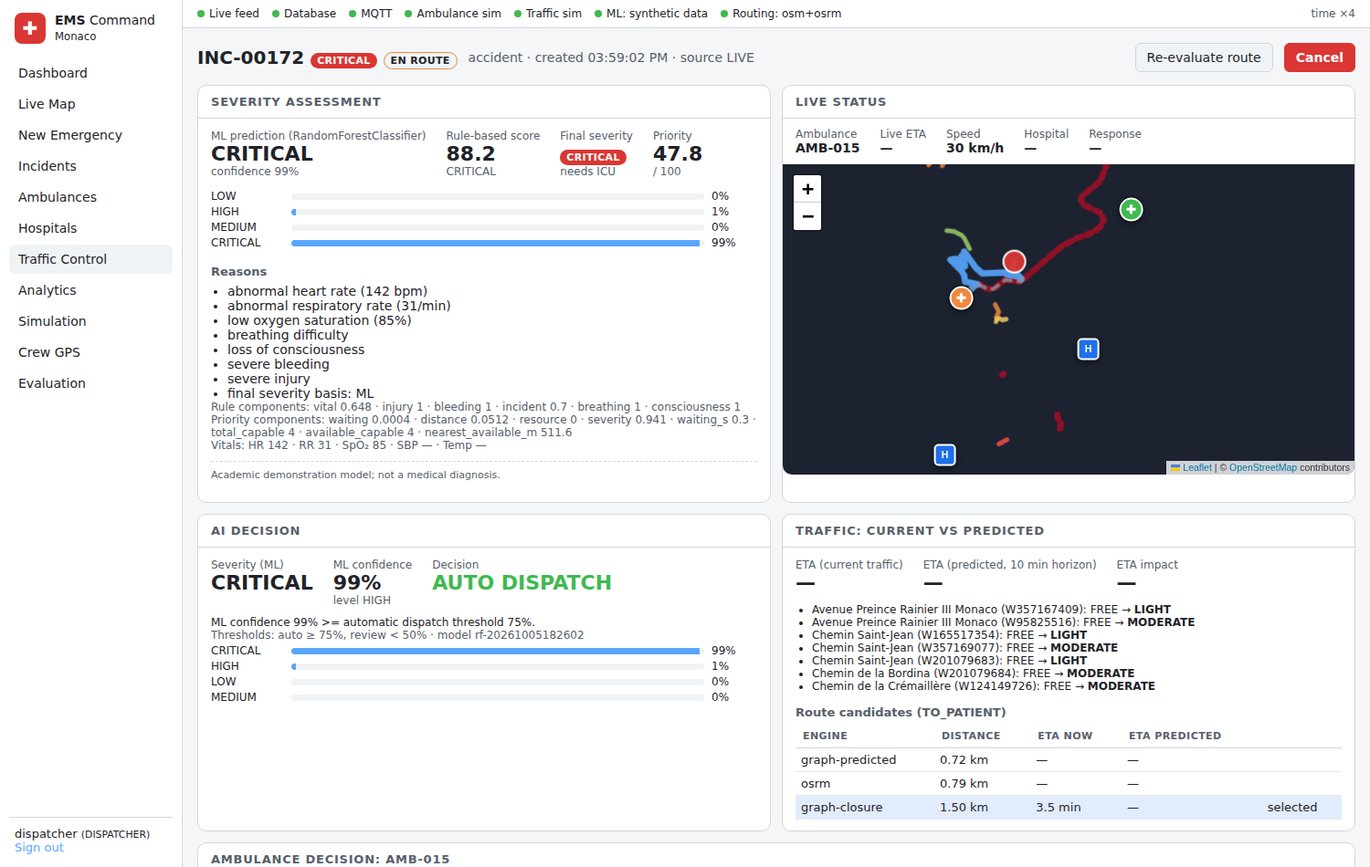
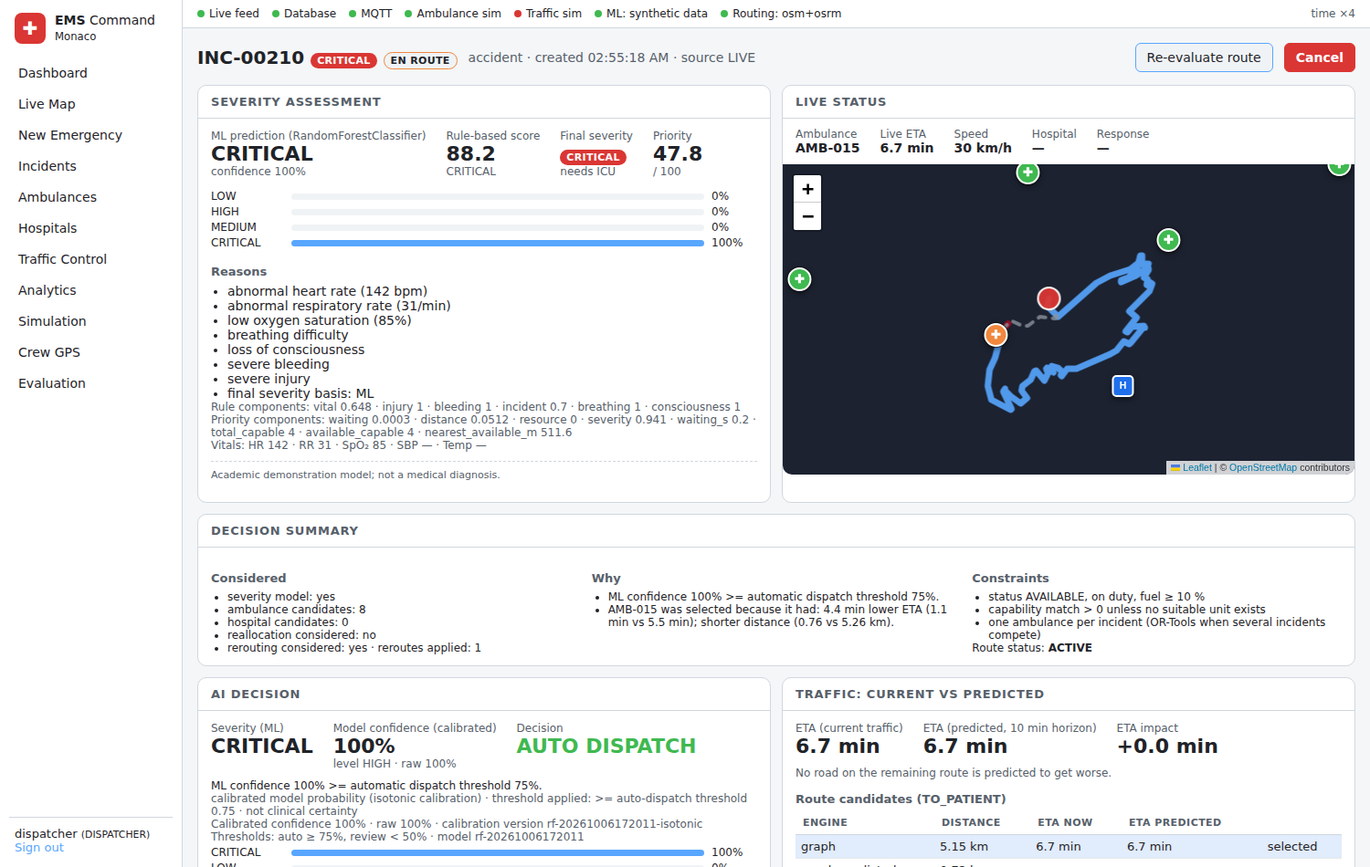
Docs: reliability features, measured results, data provenance (Monaco, not Bengaluru)
- README and RESEARCH_EVALUATION.md describe the checkpoint recovery, structured
  ROUTE_UNAVAILABLE, calibration outputs, traffic three-way comparison, new
  metrics and effect sizes, with measured values only and their limitations.
- States explicitly that the 100-scenario experiment and the live restart
  validation used the Monaco OSM extract, synthetic severity data and simulated
  calls/traffic/hospital load - not Bengaluru.
- evaluation/README.md documents how every stored output was produced.
- .env.example: ROUTE_CHECKPOINT_INTERVAL_S, ROUTE_CHECKPOINT_REPLAN_THRESHOLD_M,
  CALIBRATION_ENABLED, EVALUATION_SEED.
- Refreshed only the screenshots referenced by the README.

Claude-Session: https://claude.ai/code/session_01MB71AZiYJGwNfR2gp3n2DN

diff --git a/README.md b/README.md
@@ -17,7 +17,7 @@ PostgreSQL/PostGIS.
 4. [Features](#4-features) · 5. [Architecture](#5-architecture) · 6. [Technology stack](#6-technology-stack) ·
 7. [Database](#7-database-architecture) · 8. [ML](#8-ml-architecture) · 9. [Routing](#9-routing-architecture) ·
 10. [Traffic simulation](#10-traffic-simulation) · 11. [Dispatch algorithm](#11-dispatch-algorithm) ·
-12. [Formulas](#12-formulas) · 12a. [Decision intelligence](#12a-decision-intelligence) · 13. [Installation (Windows)](#13-installation-windows-powershell) ·
+12. [Formulas](#12-formulas) · 12a. [Decision intelligence](#12a-decision-intelligence) · 12b. [Research evaluation](#12b-research-evaluation-progressive-baselines-and-ablation) · 12c. [Reliability & provenance](#12c-reliability-calibration-and-data-provenance) · 13. [Installation (Windows)](#13-installation-windows-powershell) ·
 14. [Running](#14-running-the-project) · 15. [Docker](#15-option-b-docker-compose) · 16. [Demo](#16-demo-scenario) ·
 17. [API](#17-api) · 18. [Testing](#18-testing) · 19. [Measured results](#19-measured-results) ·
 20. [Screenshots](#20-screenshots) · 21. [Limitations](#21-limitations) · 22. [Future work](#22-future-work)
@@ -319,6 +319,151 @@ load and wait columns.
 * A CRITICAL-vs-LOW conflict was **ESCALATED** because the donor delay of 10.1 min exceeded 5 min. The
   dispatcher approved it, the units were swapped, and the cost was +4.3 min for the LOW call.
 
+## 12b. Research evaluation (progressive baselines and ablation)
+The repository includes a research evaluation layer. It replays the **same seeded scenarios** under five
+progressively stronger decision strategies (A BASELINE → B SEVERITY → C TRAFFIC → D HOSPITAL → E FULL) and
+under six FULL-minus-one ablations. It reports paired statistics: Shapiro–Wilk, then a paired t-test or
+Wilcoxon signed-rank, 95 % CI, and Holm-adjusted p-values.
+
+Every decision is taken by the production code (triage, DispatchScore, OR-Tools, routing engine on a clone
+of the real road graph plus OSRM, traffic and hospital prediction, the reallocation policy, the re-route
+rules, explanations). Experiments write only the new `experiment_*` tables (migration `0005_evaluation.sql`)
+and `evaluation/results/<run>/`.
+
+```powershell
+cd backend
+python -m app.migrate
+python -m app.evaluation.run_experiment --all --scenarios 100 --seed 42        # systems A-E
+python -m app.evaluation.run_experiment --ablation --scenarios 100 --seed 42   # FULL and FULL-minus-one
+```
+
+Results appear as CSV/JSON, `REPORT.md` and SVG plots, and on the **Evaluation** page (`/evaluation`).
+Methodology, metric definitions, statistical tests, assumptions and limitations:
+**[docs/RESEARCH_EVALUATION.md](docs/RESEARCH_EVALUATION.md)**.
+
+> **Data used for these results: Monaco, not Bengaluru.** The 100-scenario experiment and the live backend-restart
+> validation were run in the development container on the bundled **Monaco** OpenStreetMap extract (with an OSRM
+> instance built from that extract), with **synthetic** severity training data, **simulated** calls, traffic and
+> hospital load. No Bengaluru map, OSRM build or Bengaluru data was used, so none of these numbers describe
+> Bengaluru. A Bengaluru installation must re-run the experiment (`python -m app.evaluation.run_experiment --all
+> --ablation --scenarios 100 --seed 42`). Provenance of every stored run: [evaluation/README.md](evaluation/README.md).
+
+**Results: Monaco OSM + OSRM, seed 42.** Design: **100 scenarios × 11 strategy configurations = 1 100 simulation
+runs** (0 failed). The 11 configurations are the 5 progressive systems A–E plus 6 FULL-minus-one ablations; FULL is
+run once and serves both families. The 100 scenarios contain 562 emergency calls, identical in every configuration,
+giving 562 × 11 = 6 182 simulated call outcomes. **The unit of analysis is the scenario.** Each table value is a
+mean over the 100 scenario-level values of one configuration (fewer where a metric does not exist in a scenario,
+e.g. 64 scenarios contain a CRITICAL patient). Paired tests compare the same scenario under two configurations (at
+most 100 pairs); runs are never pooled across configurations. The report's "Design and denominators" section
+lists every *n*.
+(`evaluation/results/upgrade-s42-n100/`, re-run after the reliability upgrade; calibrated severity model; LEARNED traffic model; ESCALATED reallocations
+rejected by the simulated dispatcher). These are simulated decision-support results, not clinical or real-world
+performance. All numbers below are means over scenarios; "sig." means a Holm-adjusted paired Wilcoxon p < 0.05.
+
+| Metric | A BASELINE | B SEVERITY | C TRAFFIC | D HOSPITAL | E FULL |
+|---|---:|---:|---:|---:|---:|
+| Response time (s) | 471.8 | 501.9 | 488.3 | 501.7 | 487.5 |
+| Critical-case response (s) | 503.7 | 499.4 | 496.8 | 508.3 | 480.7 |
+| Critical delay beyond 8 min (s) | 182.9 | 155.3 | 146.0 | 156.2 | 135.0 |
+| Unsuitable first unit vs simulated need (%) | 25.0 | 13.9 | 13.4 | 13.3 | 11.9 |
+| Hospital capability gap (%) | 38.2 | 34.2 | 34.3 | 34.3 | 34.2 |
+| Hospital wait, simulated (s) | 1 944 | 1 980 | 1 987 | 1 534 | 1 529 |
+| Creation → ED treatment, simulated (s) | 2 905 | 2 973 | 2 958 | 2 548 | 2 527 |
+| \|ETA error\| (s) | 78.0 | 84.9 | 45.8 | 46.0 | 37.4 |
+| Re-route ETA savings per scenario (s) | 0 | 0 | 0 | 0 | 11.9 |
+| Review rate (%) / manual interventions per scenario | 0 / 0 | 0 / 0 | 0 / 0 | 0 / 0 | 2.8 / 0.41 |
+| Under-triage vs simulated label (%) | n/a | 12.7 | 12.7 | 12.7 | 11.5 |
+| Priority violations per scenario (vs simulated label) | 0.02 | 0.02 | 0.02 | 0.02 | 0.06 |
+| Route failures (no drivable route) per scenario | 0.43 | 0.53 | 0.51 | 0.50 | 0.50 |
+| Units stopped at a closure per scenario | 0.28 | 0.32 | 0.27 | 0.27 | 0.20 |
+| Unsafe reallocations per scenario (vs simulated label) | 0 | 0 | 0 | 0 | 0.02 |
+
+What the paired tests support (and what they do not):
+* **Severity awareness has a measurable cost and a measurable benefit.** Sending capable units raises mean response
+  time (+30 s vs BASELINE, sig., rank-biserial r = 0.51, large), but it halves unsuitable first units (25.0 % → 13.9 %, sig., r = −0.94) and reduces
+  hospital capability gaps (−4.0 points, sig.). The nearest-unit baseline is fast because it often sends the wrong unit.
+* **Traffic awareness mainly improves predictability.** |ETA error| falls by 39.1 s (sig., r = −0.91). Response time is not
+  significantly different from SEVERITY.
+* **Hospital intelligence gives the largest effect.** Simulated ED wait falls by 454 s (r = −0.87) and creation-to-treatment by
+  411 s (r = −0.74), both sig. vs TRAFFIC. Removing it from FULL raises the wait by 470 s (sig., r = 0.92), at the price of 11.0 s longer
+  response (sig., r = −0.49 for FULL−HOSPITAL, i.e. FULL is slower), because the chosen hospital is sometimes farther.
+* **Dynamic re-routing helps.** Removing it from FULL adds 12.8 s response time (sig., r = 0.88) and 0.25 reactive detours per
+  scenario (sig.).
+* **Confidence-aware review** holds 2.8 % of calls and lowers potentially inappropriate automatic dispatch
+  (sig.). Its effect on under-triage (12.7 % → 11.5 %) and on critical delay rests on too few non-zero pairs for a test.
+* **Reallocation** found 42 conflicts in 30 of 100 scenarios: 11 automatic reallocations and 31 escalations (rejected
+  by the simulated dispatcher). Removing it changes no time metric significantly.
+* **Explainability** changes no decision (identical results in every scenario), as designed.
+* **Traffic prediction did not help in this experiment.** The LEARNED model was trained on the live traffic
+  simulator's history. Scored against the simulated state H minutes later it reaches 76.5 % accuracy (FULL), versus
+  98.7 % for persistence and 32.6 % for the rule fallback, and removing it (FULL−TRAFFIC) does not change response time significantly. The
+  scenario traffic changes far less often than the live simulator, so the learned dynamics do not transfer.
+  This is reported, not tuned away; the live system only uses the model while it beats persistence on its own
+  history (in this run 0.955 vs 0.950 hold-out accuracy; rule fallback 0.528).
+* **Critical-case metrics** have 0.97 CRITICAL patients per scenario (64 of 100 scenarios have one), so most critical comparisons have
+  too few non-zero pairs for a test. The trend favours FULL (critical delay 134.9 s vs 182.9 s), but it is not
+  established.
+* **Severity model on the scenario patients** (simulated label): accuracy 0.965 on clear reports, 0.597 on the
+  35 % uncertain reports. Calibration ECE is 0.007 (clear) and 0.26 (uncertain): it does not transfer to noisy
+  reports.
+* **New operational metrics are rare events.** Priority violations (FULL 0.06 vs BASELINE 0.02 per scenario) rest
+  on 3 non-zero paired differences, so no test was run. The difference is reported, not established, and its
+  cause was not analysed. Route failures do not differ (Wilcoxon p = 0.94, r = 0.02).
+  The 2 unsafe reallocations (FULL) are cases where the system's triage ranked the donor lower than the requester
+  while the simulated label did not.
+* **Hospital forecast vs simulated load** (SIMULATION, FULL): load MAE 0.56 patients vs persistence 0.59, but wait
+  MAE 276 s vs persistence 264 s. The queueing forecast is not better than persistence for waits.
+* **Effect sizes and medians** for every test are in `paired_tests.csv` and on the Evaluation page. Out of 91 tested
+  comparisons, 49 vs BASELINE and 32 in the ablation family remain significant after Holm.
+* **Note on tests.** Wilcoxon tests the location of the paired differences while the CI is for the mean, so a
+  significant Wilcoxon result can sit with a mean CI that crosses 0 (e.g. SEVERITY's time-to-treatment). Such
+  results are not claimed as improvements.
+
+
+## 12c. Reliability, calibration and data provenance
+
+| Improvement | What changed | Where |
+|---|---|---|
+| **Restart recovery** | The telemetry flush now persists each live route's progress and last ETA (`routes.progress_m / last_eta_s / progress_updated_at`, `ambulance_locations.progress_m`, migration `0006_route_progress.sql`). After a backend restart the active routes are restored *with* that progress. After a **simulator** restart, the route commands the broker replays are held, not driven. The simulator announces itself (`simulator/hello`), and the backend re-sends each live route with the last persisted GPS fix and progress (`ROUTE_RESUMED`). The unit continues where it is: same route id, no duplicate route, no jump to the route start. If GPS and stored progress disagree by more than 75 m, the route is re-planned from the GPS fix instead of guessing. | `services/routes_service.resume_simulated_routes`, `simulator/ambulance_simulator.py` |
+| **No walking-speed "ambulance route"** | When every road route crosses a closed road, the router raises `NoDrivableRouteError` naming the closures, instead of driving through them at 5 km/h. Dispatch then reports **ROUTE UNAVAILABLE** with dispatcher review (the incident note names the closed roads). A moving ambulance gets one `ROUTE_UNAVAILABLE` event (ambulance, position, closed roads, `alternative_exists=false`, `dispatcher_required=true`) and a red banner, and keeps its route until a detour exists or the closure clears. The legacy behaviour is opt-in: `CLOSURE_ACCESS_FALLBACK=true`. | `routing/engine.py`, `services/dispatch_service.py`, `services/routes_service.py` |
+| **Calibrated severity probabilities** | The RandomForest's class probability is a *model confidence*, not clinical certainty. Training now carves a calibration split out of the training data. Isotonic regression is used with ≥ 1 000 calibration rows, Platt (sigmoid) below that, and no calibration below 200 rows or 20 per class. Raw and calibrated models are compared on the untouched test split, and the calibrated model is deployed only if it lowers **both** Brier and ECE without losing more than 1 point of accuracy. On the synthetic dataset, calibration was applied (isotonic): Brier 0.1013 → 0.0827, ECE 0.0756 → 0.0126, accuracy 0.9558 → 0.9542, macro-F1 0.9581 → 0.9566. The raw forest was under-confident. Reliability curves are in `ml/artifacts/metrics.json`. Thresholds were **not** changed (0.75 / 0.50). Because calibrated probabilities are higher, fewer clean cases fall below 0.75 (test split: 10.7% → 1.1%). | `ml/calibration.py`, `ml/train.py`, `ml/predict.py` |
+| **Confidence trace** | The decision trace / AI panel shows the predicted severity, the raw and the calibrated probability, the calibration method, the threshold that applied, the decision mode and the reason. It is labelled "model confidence, not clinical certainty". Decision modes map onto the requested vocabulary: AUTO = `AUTO_DISPATCH`, REVIEW = `DISPATCH_WITH_REVIEW`, CLARIFY = `HUMAN_REVIEW` (the dispatcher confirms or corrects severity before dispatch), ABSTAIN = model unavailable (the ML abstains; the rule score decides, with review). No new modes were invented. | `services/decision_service.py`, `DecisionPanels.tsx` |
+| **Traffic source labels** | The traffic API and page state `traffic_source = SIMULATION`; whether the prediction is LEARNED or FALLBACK and why; training samples; the hold-out comparison against persistence; and what the confidence number means (the uncalibrated RF class probability, or the empirical persistence rate for the fallback). | `services/traffic_prediction.py`, `Traffic.tsx` |
+| **Traffic model training storm (bug fix)** | Concurrent traffic events each retrained the model at start-up. The log showed 25 trainings on 30 000 samples, which saturated the CPU and stalled the API. Training is now serialised with a double-checked lock (1 training). | `services/traffic_prediction.py` |
+| **Hospital data quality** | A capability status is derived from the data source: `VERIFIED_YES/NO` (CSV), `OSM_TAG_YES`, `UNKNOWN` (absent OSM tag, **never** "no"), `SIMULATED_YES/NO` (demo seed). Capacity is labelled verified / estimated / simulated, and load as SIMULATION. In ranking, a hospital whose required capability is only *unknown* ranks after confirmed-capable hospitals but before confirmed-lacking ones; with complete data the order is unchanged. Warnings distinguish "lacks" from "unknown". | `services/mission_service.py`, `dispatch/scoring.py` |
+| **Hospital why / why not** | Every alternative hospital gets factual reasons: lacks / unknown capability, at capacity, slower, longer estimated wait, higher predicted load, or higher overall score. Hospital forecasts carry `source = SIMULATION`. | `dispatch/scoring.hospital_why_not`, `dispatch/explain.py` |
+| **Reallocation candidates** | Every committed unit is assessed and the result stored in the conflict (`details.candidates`): unavailable (with reason), unreachable, insufficient gain, feasible / not feasible (with estimated donor delay). Among the 3 fastest options, the fastest *feasible* one is reallocated automatically. If none is feasible, the fastest is escalated, as before. It is still one donor per conflict; multi-unit chain reallocation is outside the current optimisation scope. The evaluation simulator uses the same ranking function. | `services/reallocation.rank_donor_options` |
+| **Provenance labels** | Synthetic seed incidents show as `HISTORICAL_SEED / SYNTHETIC`, and simulation/scenario incidents as simulated. | `format.ts`, Incidents / details pages |
+| **Evaluation** | The research evaluation (§12b) now also reports the severity model on the scenario patients (accuracy, macro P/R/F1, Brier, ECE, confidence distribution, split by clear / uncertain reports) and **traffic-prediction quality**: every prediction is scored against the simulated state H minutes later, next to the persistence baseline. | `evaluation/runner.py`, `evaluation/simulator.py` |
+| **Route checkpoint + backend restart recovery** | Migration `0007_route_checkpoint.sql` adds `routes.checkpoint_lat/lon/segment`. The telemetry flush saves a checkpoint (progress, segment, position, ETA, time) at most every `ROUTE_CHECKPOINT_INTERVAL_S` (default 2 s) per active route and logs `ROUTE_CHECKPOINT_SAVED`. When the backend starts (after MQTT connects), every active route is reloaded from the database. If the latest GPS fix is within `ROUTE_CHECKPOINT_REPLAN_THRESHOLD_M` (default 75 m) of the checkpoint, the route continues from the checkpoint and the ETA is recomputed from the remaining route (`ROUTE_RECOVERED`). Otherwise the route is replanned from the GPS position (`ROUTE_RECOVERY_REPLAN`). Both events store the checkpoint, the current position, the distance, the threshold, the old/new ETA and the reason. In a live run in the development container (Monaco OSM extract, simulated ambulance, not Bengaluru), a backend killed mid-route came back and resumed the route at the 363.1 m checkpoint (distance 0 m, same route id). The route then completed normally. | `services/telemetry_service.py`, `services/routes_service.recover_active_routes`, `main.py` |
+| **Structured ROUTE UNAVAILABLE** | `POST /api/routes/calculate` answers **409** with `{status: "ROUTE_UNAVAILABLE", reason, blocked_roads, origin, destination, dispatcher_action_required: true}` when no drivable route exists. For a moving ambulance, the route row stores `unavailable_reason / unavailable_at`, and `ROUTE_AVAILABLE` is emitted when the closure clears. The incident page shows a red "ROUTE UNAVAILABLE - dispatcher action required" banner naming the incident, the ambulance and the closed roads. Tests cover all five cases: a normal route, one closure with an alternate road, every access closed, fallback disabled (default) and fallback explicitly enabled. | `routing/engine.py`, `api/routes.py`, `EmergencyDetails.tsx` |
+| **Calibration outputs** | Training writes `evaluation/severity_calibration.json`. It records the train 60 % / calibration 20 % / untouched test 20 % split, the method, the version, the raw and calibrated Brier and ECE, accuracy / precision / recall / F1, the sample counts and the ECE bins, and it logs `CALIBRATION_EVALUATED`. Each prediction keeps both the raw and the calibrated vectors, plus `calibration_version`, in `CONFIDENCE_ASSESSED`. With `CALIBRATION_ENABLED=false`, decisions use the raw probabilities. Current file (synthetic data, 1 200 test rows): Brier 0.1013 → 0.0827, ECE 0.0756 → 0.0126. | `ml/train.py`, `ml/predict.py` |
+| **Traffic: ML vs fallback vs persistence** | `python -m app.evaluation.traffic_eval` scores the three predictors on the time-ordered hold-out of the stored (SIMULATION) traffic history and writes `evaluation/traffic_prediction.json` (logs `TRAFFIC_PREDICTION_EVALUATED`). Measured: ML accuracy 0.9532 / MAE 0.0841 levels, rule fallback 0.4793 / 0.5883, persistence 0.9504 / 0.1060 (30 000 samples, 7 500 hold-out). The learned model only marginally beats persistence, and the rule fallback is much worse than persistence. | `evaluation/traffic_eval.py`, `ml/traffic_model.py` |
+| **Decision summary + rejection codes** | `GET /api/emergencies/{id}/decision` adds a `summary` covering what was considered (severity model, ambulance and hospital candidates, units with no drivable route, whether reallocation and rerouting were considered), why, the constraints and the route status. Each rejected candidate carries structured codes. Ambulance codes are `UNSUITABLE_CAPABILITY`, `TOO_SLOW`, `HEAVY_TRAFFIC`, `LOWER_CAPABILITY_MATCH`, `HIGHER_WORKLOAD`, `LOW_FUEL`, `LONGER_DISTANCE`, `HIGHER_SCORE`, `ASSIGNED_TO_HIGHER_PRIORITY`, `NO_DRIVABLE_ROUTE`. Hospital codes are `LACKS_CAPABILITY`, `CAPABILITY_UNKNOWN`, `HOSPITAL_FULL`, `TOO_SLOW`, `HOSPITAL_CONGESTION`, `HIGHER_SCORE`. Reallocation candidate codes are `DONOR_EQUAL_OR_HIGHER_SEVERITY`, `LOWER_PRIORITY_MARGIN` (= lower priority not low enough), `UNSUITABLE_CAPABILITY`, `NO_DRIVABLE_ROUTE`, `INSUFFICIENT_GAIN`, `NO_REPLACEMENT`, `DONOR_DELAY_TOO_HIGH`, `FEASIBLE` (logged as `RESOURCE_REALLOCATION_EVALUATED`). | `services/decision_service.py`, `dispatch/explain.py`, `dispatch/scoring.py`, `services/reallocation.py` |
+
+**What is real, simulated, predicted or estimated**
+
+| Data | Status |
+|---|---|
+| Road network, hospital names/locations | REAL PUBLIC DATA (OpenStreetMap) when the OSM extract is installed; synthetic grid otherwise |
+| Hospital capabilities | VERIFIED only after the CSV import; OSM tags are partial evidence; missing tags are UNKNOWN |
+| Hospital capacity / load | capacity estimated (OSM beds or default) unless verified; load is SIMULATION (dispatch admissions, simulated discharges) |
+| Hospital load / wait prediction | MODEL OUTPUT, an ESTIMATE from a queueing approximation on simulated load |
+| Traffic states | SIMULATION (traffic simulator + dispatcher events); no live external feed |
+| Traffic prediction | MODEL OUTPUT, LEARNED only if it beats persistence on the stored (simulated) history, else FALLBACK |
+| Severity | MODEL OUTPUT on SYNTHETIC training data (demo) or on a REAL PUBLIC triage dataset (KTAS, Korea, ED triage, not Indian pre-hospital care). Not a diagnosis, not clinically validated |
+| Incidents | live dispatcher input, SIMULATION/SCENARIO (simulated), HISTORICAL_SEED (SYNTHETIC) |
+| Ambulance GPS | SIMULATION (MQTT simulator), or the crew phone's real GPS (Crew GPS page) |
+
+**Not implemented (with reason)**
+
+| Feature | Status | Reason | What would be required | Current safe behaviour |
+|---|---|---|---|---|
+| Multi-unit / chain reallocation | NOT IMPLEMENTED | needs a joint optimisation over all active missions, a major change to the dispatch architecture | a fleet-wide assignment model (e.g. CP-SAT over active and waiting incidents) with impact constraints | one donor per conflict, ranked candidates, escalation when not feasible |
+| Hospital-load prediction vs persistence on real data | NOT MEASURABLE WITH CURRENT DATA | no real occupancy history; in the *simulation* the forecast is now scored against the simulated load (load and wait MAE vs persistence, labelled SIMULATION, §12b) | historical snapshots of incoming ambulances plus real occupancy data | forecast labelled ESTIMATE / SIMULATION |
+| Validated uncertainty for traffic predictions | NOT IMPLEMENTED | the RF class probability is uncalibrated, and the history is simulated | a calibration study on real traffic data | the number is shown with its exact meaning, never as a validated uncertainty |
+| Real traffic / real hospital occupancy | NOT IMPLEMENTED | no free real-time source for Bengaluru | a licensed traffic API / hospital information-system integration | clearly labelled simulation |
+
 ## 13. Installation (Windows PowerShell)
 Get the code (into `D:\emergencydispatch`):
 ```powershell
@@ -543,13 +688,16 @@ Interactive docs: `/docs`. All endpoints except login/health require `Authorizat
 | POST | `/api/dispatch/conflicts/{id}/approve` · `/reject` | DISPATCHER | resolve an escalated reallocation |
 | GET/POST | `/api/traffic/predictions` `?changed_only=` · `/predictions/refresh` `?retrain=` | any / DISPATCHER | predicted traffic + model status · recompute |
 | GET | `/api/hospitals/predictions` · `/api/hospitals/{id}/prediction` `?horizon_min=` | any | predicted hospital load and wait (estimated) |
+| GET | `/api/evaluation/runs` · `/runs/{id}` · `/runs/{id}/results?strategy=` · `/strategies` · `/job` | any | stored experiments, comparison, paired statistics, per-scenario metrics |
+| GET | `/api/evaluation/model-quality` | any | severity calibration (Brier/ECE raw vs calibrated) and traffic ML vs fallback vs persistence, read from `evaluation/*.json` (NOT RUN if absent) |
+| POST | `/api/evaluation/runs` `{progressive, ablation, strategies, scenarios<=200, seed (default EVALUATION_SEED)}` | ADMIN | start an experiment in the background (use the CLI for large runs) |
 | POST | `/api/emergencies/{id}/reroute` · `/cancel` | DISPATCHER | re-evaluate route · cancel |
 | GET | `/api/ambulances` `?status=&near_lat=&near_lon=&radius_m=` · `/{id}` | any | fleet (PostGIS `ST_DWithin` filter), track |
 | POST/PATCH | `/api/ambulances` · `/{id}` | ADMIN | manage units |
 | POST | `/api/ambulances/{id}/gps` · `/arrived` · `/gps/release` | DISPATCHER | real device GPS fix (map-matched) · crew confirms arrival · hand unit back to simulator |
 | GET/POST/PATCH | `/api/hospitals` | any / ADMIN | hospitals |
-| GET | `/api/routes` `?active=` · `/api/routes/{id}` | any | routes with segments |
-| POST | `/api/routes/calculate` | any | traffic-aware route between two points |
+| GET | `/api/routes` `?active=` · `/api/routes/{id}` | any | routes with segments, status (ACTIVE / UNAVAILABLE / COMPLETED / SUPERSEDED), last checkpoint, remaining distance, reroute count |
+| POST | `/api/routes/calculate` | any | traffic-aware route between two points; 409 `ROUTE_UNAVAILABLE` (structured) when every route crosses a closure |
 | GET | `/api/traffic/roads` · `/roads/nearest` · `/events` · `/network` | any | road states/geometry, events, graph stats |
 | POST | `/api/traffic/events` | DISPATCHER | ACCIDENT · BLOCK · UNBLOCK · CONGESTION(level) · CLEAR by road or point |
 | POST | `/api/traffic/simulate` · `/api/traffic/reset` | DISPATCHER | random traffic step(s) · clear all |
@@ -564,7 +712,7 @@ MQTT topics: `ambulance/{id}/location|status|telemetry|command` (commands `FOLLO
 
 ## 18. Testing
 ```powershell
-# backend: 69 tests (wipes and recreates TEST_DATABASE_URL, default database ems_test)
+# backend: 113 tests (wipes and recreates TEST_DATABASE_URL, default database ems_test)
 cd backend; python -m pytest
 
 # frontend E2E (backend on :8000 and `npm run dev` running; simulator optional)
@@ -597,6 +745,25 @@ cd frontend; npx playwright install chromium; npx playwright test
 * `test_e2e_decision.py`: deterministic end-to-end run on the synthetic network with a recording MQTT bridge.
   It covers confidence → dispatch → explanation → predicted traffic → road block → `ROUTE_UPDATED` →
   cooldown holds → hospital forecast → completion, and checks the decision-trace order. No internet or OSRM needed.
+* `test_restart_recovery.py`: the simulator holds replayed routes and resumes at the persisted position (no
+  teleport, no duplicate route); progress/ETA are persisted and restored after a backend restart; re-planning from GPS
+  when it disagrees with the stored progress; ROUTE_UNAVAILABLE through the API (one alert, no walking route, dispatcher
+  review note).
+* `test_calibration.py`: Brier / ECE / reliability definitions, calibration not forced on small data, raw vs calibrated
+  deployment, old model files still load, and the confidence trace states the probability type and threshold.
+* `test_data_labels.py`: tri-state hospital capabilities, unknown vs lacking ranking, why-not reasons, SIMULATION labels.
+* `test_traffic_training_lock.py`: concurrent callers train the traffic model once.
+* `test_routing.py::test_no_drivable_route_is_reported_not_walked`, `test_reallocation.py::test_donor_ranking_prefers_safest_feasible_option`.
+* `test_evaluation.py`:
+  * strategy definitions and ablations;
+  * BASELINE picks the nearest unit, SEVERITY the capable one, TRAFFIC avoids a congested unit, HOSPITAL
+    avoids a congested hospital, FULL enables every capability;
+  * explanations never change decisions, and the live graph is untouched;
+  * reproducibility: same seed gives the same scenarios and results;
+  * scenario coverage, metric definitions, paired statistics and Holm correction;
+  * runner persistence with failure isolation, and operational tables unchanged;
+  * every strategy runs on identical calls; API and RBAC.
+* `frontend/e2e/evaluation.spec.ts`: an ADMIN runs an experiment from the Evaluation page; viewers are read-only.
 * `frontend/e2e/decision.spec.ts`: decision panels (why / why-not, trace) and the predicted-traffic table.
   `e2e/global-setup.ts` resets operations before a run.
 * `frontend/e2e/crew.spec.ts`: emulated phone geolocation on the Crew GPS page drives an ambulance to ARRIVED.
@@ -604,7 +771,7 @@ cd frontend; npx playwright install chromium; npx playwright test
   dispatch explanation, see the ambulance marker on the map, traffic event → re-route banner and route
   table, analytics, viewer is read-only.
 
-Last run in the development environment: **backend 69 passed** (40 existing + 29 new), **Playwright 6 passed** (3 consecutive runs).
+Last run in the development environment: **backend 100 passed** (69 from before the evaluation work + 14 evaluation + 17 reliability/calibration/data-quality), **Playwright 8 passed** (3 consecutive runs).
 
 ## 19. Measured results
 Measured in the development container (Linux, 4 vCPU, Python 3.11) on the Monaco OSM network
@@ -653,18 +820,29 @@ because the sandbox could not reach the OSM tile server; on a normal machine the
   load is simulated (admissions from dispatches, simulated discharges).
 * **Incidents** are entered by the dispatcher or generated by the simulation. The 50 "historical" seed
   incidents are synthetic (source `HISTORICAL_SEED`).
-* If no open route exists, the router passes closed roads at walking pace (5 km/h) and warns the
-  dispatcher, rather than declaring the patient unreachable.
+* If no open (drivable) route exists, the system reports ROUTE UNAVAILABLE and requires a dispatcher decision.
+  The legacy walking-pace access through a closure is only used with `CLOSURE_ACCESS_FALLBACK=true`.
 * The weighted scores are engineering choices; they do not guarantee the fastest possible response.
 * Single backend process; dispatch serialisation uses an in-process lock plus row locks, which suits one
   instance (horizontal scaling would need a distributed lock/queue).
 * **Predictions are estimates.** Hospital load and wait come from a queueing approximation on simulated
   admissions and discharges. They are labelled as estimates and are not real ED data. The traffic model learns
   from simulated traffic only, so it is used only while it beats persistence.
-* Confidence is the RandomForest's class probability. It is not calibrated against clinical outcomes.
+* Confidence is the RandomForest's class probability, calibrated (isotonic) on held-out synthetic data when that
+  measurably improves Brier/ECE. It is calibrated against the dataset's labels, **not** against clinical outcomes.
 * Reallocation considers one donor unit per conflict. Chains of reassignments are escalated to the dispatcher
   rather than optimised.
-* The ambulance simulator restarts a route from its start if the simulator itself is restarted mid-route.
+* Simulator restart recovery resumes from the last *persisted* position (telemetry is flushed about every second),
+  so a restart can lose up to about one second of movement. An old backend that does not answer `simulator/hello`
+  leads to the previous behaviour (route start) after `SIM_RESUME_WAIT_S`, and this is logged as RESUME_UNAVAILABLE.
+* Backend restart recovery resumes from the last route **checkpoint** (saved at most every
+  `ROUTE_CHECKPOINT_INTERVAL_S`). Movement during the backend outage is not recorded. If the ambulance moved more
+  than `ROUTE_CHECKPOINT_REPLAN_THRESHOLD_M` away, the route is replanned rather than guessed.
+* The traffic predictor learns from **simulated** traffic. On the stored history it beats persistence only
+  marginally (0.953 vs 0.950 accuracy), and the rule fallback is far worse than persistence (0.479). Inside the
+  research simulation, persistence was the stronger predictor (§12b). None of this measures real Bengaluru traffic.
+* The research evaluation is a simulation. Effect sizes and p-values describe differences between strategies on
+  simulated scenarios, not real-world or clinical outcomes.
 
 ## 22. Future work
 * Real traffic feeds (open city data / probe vehicles) and travel-time prediction (e.g. gradient boosting

diff --git a/docs/RESEARCH_EVALUATION.md b/docs/RESEARCH_EVALUATION.md
@@ -114,6 +114,22 @@ test, and its cost is measured by the "unsuitable first unit" metric.
   * routing source (OSM graph and OSRM status);
   * city, road-network fingerprint, all thresholds, and timestamps.
 
+## Design and denominators
+
+* **Unit of analysis: the scenario.** A run of `--scenarios S` with `C` strategy configurations performs
+  **S × C simulation runs**: every scenario is replayed once under every configuration. For example, `--all --ablation
+  --scenarios 100` gives 100 × 11 = **1 100 runs**: 5 progressive systems plus 6 ablations, with FULL run once and
+  shared by both families.
+* **Calls.** The scenarios' calls are identical in every configuration, giving calls × C simulated call outcomes
+  (`incident_results.csv`).
+* **Descriptive tables.** Each value is a mean over the S scenario-level values of one configuration, never a mean
+  over all S × C runs.
+* **Paired tests.** One pair per scenario (at most S pairs).
+* **Missing values.** A metric that does not exist in a scenario is NULL there and lowers its *n*. For example,
+  critical-case metrics only exist in scenarios with a CRITICAL patient.
+* **Generated section.** Every report contains a "Design and denominators" section generated from the stored
+  results. Refresh it for an existing run with `python -m app.evaluation.report <run name>`.
+
 ## Metrics
 
 All times are in simulated seconds. `NULL` means not measurable, never zero. Per call *i*: created at
@@ -137,6 +153,15 @@ All times are in simulated seconds. `NULL` means not measurable, never zero. Per
 | Under-triage | share of calls whose severity used by the system is below the simulated label (the generator label, not clinical truth) |
 | Resource conflicts | detected, automatic reallocations, escalated (approved / rejected), estimated donor delay, estimated requester delay avoided |
 | Manual interventions | reviews + reallocation decisions. The simulated dispatcher performs no manual dispatch, re-route or hospital override, so those counts are 0. |
+| Traffic prediction accuracy / MAE | every traffic prediction made during a run, compared with the *simulated* level of that road H minutes later; reported next to the persistence baseline ("the level stays as it is"), also on the subset of roads that actually changed |
+| Priority violations | number of dispatches in which a unit went to call X while an earlier, released call Y with a strictly more severe *simulated* label kept waiting, although that unit could have served Y (capability match > 0). The label is the generator's, not clinical truth. |
+| Route failures | distinct (unit or hospital, call, purpose) combinations for which no drivable route existed (structured ROUTE_UNAVAILABLE, no walking fallback) |
+| Closure waits | legs where a moving unit had to stop at a closure because no detour existed |
+| Unsafe reallocations | executed reallocations whose donor call had an equal or higher *simulated* severity than the requester. The live rule forbids this on the system's own severity, so a non-zero value means triage disagreed with the label. |
+| Replacement ETA | mean estimated ETA of the replacement unit sent to a donor call (executed reallocations) |
+| Hospital prediction error (SIMULATION) | every hospital forecast (all candidates, at the predicted arrival time) vs the *simulated* load at that time, excluding the evaluated patient: load MAE (patients) and wait MAE (s), each next to persistence ("load stays as it is now") |
+| Traffic fallback accuracy / MAE | the rule fallback scored on the same predictions, next to the learned model and persistence |
+| Severity model (per run) | accuracy, macro precision/recall/F1, multiclass Brier, top-label ECE and confidence distribution of the deployed (calibrated) model on the scenario patients vs the simulated label, split into clear and uncertain reports |
 
 ## Statistics
 
@@ -150,6 +175,24 @@ All times are in simulated seconds. `NULL` means not measurable, never zero. Per
 * **When no test is run.** No test with fewer than 10 pairs, or when the differences are all zero.
 * **Multiple comparisons.** p-values are Holm–Bonferroni adjusted within each comparison family. Only
   adjusted p < 0.05 is called significant.
+* **Reported per test.** Reference and strategy medians, the median and mean difference, the 95 % CI, the test,
+  the raw p, the Holm-adjusted p and an **effect size**. For Wilcoxon, the effect size is the matched-pairs
+  rank-biserial correlation r = (W⁺ − W⁻)/(W⁺ + W⁻) (|r| < 0.1 negligible, 0.1 small, 0.3 medium, 0.5 large). For
+  the paired t-test it is Cohen's dz = mean(d)/sd(d) (0.2 small, 0.5 medium, 0.8 large). The interpretation is
+  stored with the value. Fewer than 10 pairs gives "insufficient sample size for reliable statistical
+  inference", and identical results give effect 0 "none (identical)".
+* **Logging.** Each comparison family logs `STATISTICAL_TEST_COMPLETED` (or `ABLATION_EVALUATION_COMPLETED`), and
+  each strategy logs `HOSPITAL_PREDICTION_EVALUATED` with its simulated hospital-forecast errors.
+
+## Offline model-quality reports
+
+| Report | Command | File | Content |
+|---|---|---|---|
+| Severity calibration | `python -m app.ml.train` | `evaluation/severity_calibration.json` | train 60 % / calibration 20 % / untouched test 20 %; raw vs calibrated Brier and ECE (10 equal-width bins), accuracy, macro P/R/F1, sample counts, method and version |
+| Traffic prediction | `python -m app.evaluation.traffic_eval` | `evaluation/traffic_prediction.json` | learned model vs rule fallback vs persistence on the time-ordered hold-out (last 25 %) of the stored SIMULATION traffic history; INSUFFICIENT DATA if the history is too small |
+
+Both reports are shown on the Evaluation page (`GET /api/evaluation/model-quality`). A missing file is shown as
+NOT RUN, never filled in.
 
 ## Commands
 
@@ -191,7 +234,17 @@ shown on the **Evaluation** page (`/evaluation`). An ADMIN can start a run of up
 * **Routing data.** OSM/OSRM represent the road network, not live conditions. OSM speed limits are often
   defaults, and OSRM is free-flow (it is re-costed with the scenario traffic).
 * **Fuel** is not consumed during an experiment.
+* **Closures.** As in the live system, when no drivable route exists a unit waits at the closure (ROUTE
+  UNAVAILABLE) until it reopens; it never drives through it at walking pace (unless `CLOSURE_ACCESS_FALLBACK=true`).
+* **Reallocation ranking.** The live and simulated policy assess the 3 fastest committed units and reallocate the
+  fastest *feasible* one (replacement exists, donor delay within the limit); otherwise the fastest is escalated.
+* **Calibrated severity model.** Results depend on the deployed model; runs record its version. Runs made before
+  calibration (e.g. `research-s42-n100`) used the raw RandomForest and the walking-pace closure fallback.
 * **Reallocation scope.** One reallocation per dispatcher cycle (live behaviour); escalations are decided
   instantly by the simulated dispatcher.
+* **City and data of the stored runs.** Every stored run (`research-s42-n100`, `final-s42-n100`,
+  `upgrade-s42-n100`, the 5/10-scenario checks) used the **Monaco** OSM extract with an OSRM build of that extract,
+  synthetic severity training data and simulated calls, traffic and hospital load. None used Bengaluru data.
+  See `evaluation/README.md`.
 * **Sample size.** Results depend on the city graph, the hospital list and the scenario distribution. A
   different city (for example Bengaluru) must be re-run, and the numbers must not be transferred.

diff --git a/evaluation/README.md b/evaluation/README.md
@@ -1,0 +1,25 @@
+# Evaluation outputs (research evidence)
+
+All outputs in this folder were produced by the commands below in the development container, using the bundled
+**Monaco** OpenStreetMap extract (`data/maps/monaco.osm.pbf`) and an OSRM build of that extract. The severity model
+was trained on **synthetic** data, and calls, traffic and hospital load are **simulated**. **No Bengaluru map,
+OSRM build or Bengaluru data was used.** These numbers do not describe Bengaluru or any real emergency service,
+and they are not clinical results. A Bengaluru installation must regenerate them.
+
+| Path | Produced by | Notes |
+|---|---|---|
+| `severity_calibration.json` | `python -m app.ml.train` (synthetic dataset, seed 42) | raw vs calibrated Brier / ECE on the untouched 20 % test split of model `rf-20261006172011`; matches `backend/app/ml/artifacts/metrics.json` |
+| `traffic_prediction.json` | `python -m app.evaluation.traffic_eval` | learned model vs rule fallback vs persistence on the time-ordered hold-out of the stored **simulated** traffic history (Monaco dev database) |
+| `results/upgrade-s42-n100/` | `python -m app.evaluation.run_experiment --all --ablation --scenarios 100 --seed 42 --osrm --name upgrade-s42-n100` | **current results** cited in the README (§12b); 100 scenarios × 11 configurations = 1 100 runs |
+| `results/final-s42-n100/` | same command, `--name final-s42-n100` | earlier run (calibrated model, before the route-checkpoint / new-metric changes); kept for history |
+| `results/research-s42-n100/` | same command, `--name research-s42-n100` | first 100-scenario run: raw RandomForest and walking-pace closure fallback (before the reliability changes) |
+| `results/step7-all-s42-n5/`, `results/step9-all-s42-n10/` | `--all --scenarios 5` / `10` | small smoke runs from the initial evaluation work (FALLBACK traffic model) |
+
+`run_metadata.json` in each run records the git commit, branch and whether the working tree had uncommitted changes
+(`git_dirty`). The runs `final-s42-n100` and `upgrade-s42-n100` were made from the working tree on top of commit
+`a2116ca` **before** the changes were committed. `upgrade-s42-n100` corresponds to the code in the commits that
+added this file. Runs started from the Evaluation page (`results/api-*`) are not kept (`.gitignore`).
+
+Re-running with the same seed, data, model and code reproduces the scenarios exactly. The results also depend on the
+trained traffic model, which is retrained on the database's simulated traffic history at the start of each run
+(its version and hold-out metrics are stored in `run_metadata.json`).
